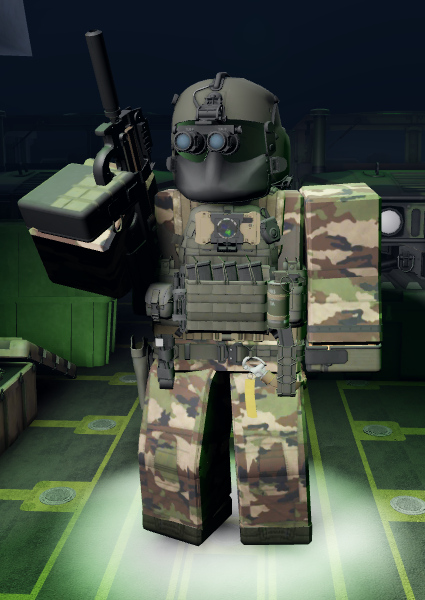
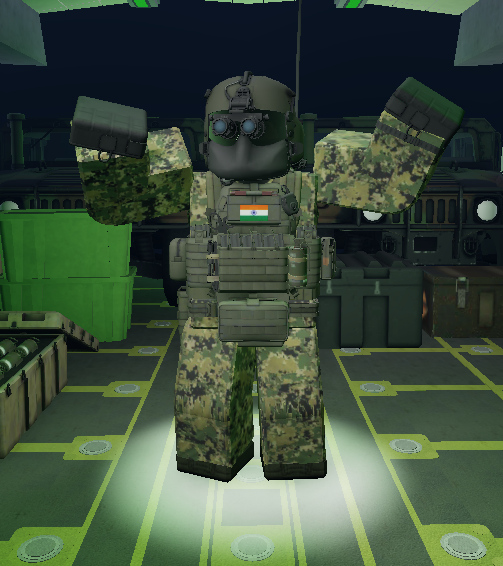
v1.7

diff --git a/uniforms.js b/uniforms.js
@@ -65,7 +65,7 @@ const uniforms = [
             "STANDARD ISSUE",
 
         image:
-            "INF1.png",
+            "IM90.png",
 
         description:
             "Authorized fictional in-game uniform configuration for personnel assigned to the 7 PARA/AMC/ASC/RECON/MED.",
@@ -107,7 +107,7 @@ const uniforms = [
                             "Primary",
 
                         value:
-                            "INTEL Rail 3.0 Ballistic"
+                            "MICH 2002"
                     },
 
                     {
@@ -115,7 +115,7 @@ const uniforms = [
                             "Camo",
 
                         value:
-                            "Ranger Green"
+                            "Olive drab green"
                     },
 
                     {
@@ -236,7 +236,7 @@ const uniforms = [
                             "Camo",
 
                         value:
-                            "Tan"
+                            "Foliage Green/ ANY green"
                     }
 
                 ]
@@ -255,7 +255,7 @@ const uniforms = [
                             "System",
 
                         value:
-                            "Spectre U"
+                            "ACU (Army Combat Uniform)"
                     },
 
                     {
@@ -263,7 +263,7 @@ const uniforms = [
                             "Camo",
 
                         value:
-                            "Camouflage Central Europe"
+                            "US4CES Transitional"
                     }
 
                 ]
@@ -282,7 +282,7 @@ const uniforms = [
                             "System",
 
                         value:
-                            "Spectre U"
+                            "ACU (Army Combat Uniform)"
                     },
 
                     {
@@ -290,7 +290,7 @@ const uniforms = [
                             "Camo",
 
                         value:
-                            "Camouflage Central Europe"
+                            "US4CES Transitional"
                     }
 
                 ]
@@ -317,7 +317,7 @@ const uniforms = [
                             "Camo",
 
                         value:
-                            "C-AVOD AU for Attack 2 / Ranger or Olive Green for other uses"
+                            "Ranger green/ANY green"
                     }
 
                 ]
@@ -422,7 +422,7 @@ const uniforms = [
                             "Camo",
 
                         value:
-                            "Ranger Green"
+                            "Black"
                     }
 
                 ]
@@ -1045,7 +1045,7 @@ const uniforms = [
                         "System",
 
                     value:
-                        "Spectre U"
+                        "ACU (Army Combat Uniform)"
                 },
 
                 {
@@ -1053,7 +1053,7 @@ const uniforms = [
                         "Camo",
 
                     value:
-                        "Camouflage Central Europe"
+                        "US4CES Transitional"
                 }
 
             ]
@@ -1072,7 +1072,7 @@ const uniforms = [
                         "System",
 
                     value:
-                        "Spectre U"
+                        "ACU (Army Combat Uniform)"
                 },
 
                 {
@@ -1080,7 +1080,7 @@ const uniforms = [
                         "Camo",
 
                     value:
-                        "Camouflage Central Europe"
+                        "US4CES Transitional"
                 }
 
             ]
@@ -1107,7 +1107,7 @@ const uniforms = [
                         "Camo",
 
                     value:
-                        "C-AVOD AU for Attack 2 / Ranger or Olive Green for other uses"
+                        "Ranger green/ANY green"
                 }
 
             ]
@@ -1212,7 +1212,7 @@ const uniforms = [
                         "Camo",
 
                     value:
-                        "Ranger Green"
+                        "Black"
                 }
 
             ]

diff --git a/armoury.js b/armoury.js
@@ -135,16 +135,15 @@ const equipment = [
 
         role: "si",
 
-        name: "Beretta M9 (M9)",
+        name: "SIG SAUER M17 (M17)",
 
         type: "STANDARD ISSUE",
 
         image:
-            "M9.png",
+            "M17.png",
 
         description:
-            "The Beretta M9 is a 9mm semi-automatic service pistol, widely known for its reliability and distinctive open-slide design. It served as the standard U.S. military sidearm from 1985 for several decades.",
-
+            "The SIG Sauer M17 is a 9mm semi-automatic service pistol based on the SIG Sauer P320 platform, adopted by the U.S. military as its standard full-size Modular Handgun System sidearm.",
         info: {
 
             designation:
@@ -318,15 +317,15 @@ const equipment = [
 
         role: "autorifleman",
 
-        name: "Beretta M9 (M9)",
+        name: "SIG SAUER M17 (M17)",
 
         type: "AUTOMATIC",
 
         image:
-            "M9.png",
+            "M17.png",
 
         description:
-            "The Beretta M9 is a 9mm semi-automatic service pistol, widely known for its reliability and distinctive open-slide design. It served as the standard U.S. military sidearm from 1985 for several decades.",
+            "The SIG Sauer M17 is a 9mm semi-automatic service pistol based on the SIG Sauer P320 platform, adopted by the U.S. military as its standard full-size Modular Handgun System sidearm.",
 
         info: {
 
@@ -992,15 +991,15 @@ const equipment = [
 
         role: "marksman",
 
-        name: "Beretta M9 (M9)",
+        name: "SIG SAUER M17 (M17)",
 
         type: "STANDARD ISSUE",
 
         image:
-            "M9.png",
+            "M17.png",
 
         description:
-            "The Beretta M9 is a 9mm semi-automatic service pistol, widely known for its reliability and distinctive open-slide design. It served as the standard U.S. military sidearm from 1985 for several decades.",
+            "The SIG Sauer M17 is a 9mm semi-automatic service pistol based on the SIG Sauer P320 platform, adopted by the U.S. military as its standard full-size Modular Handgun System sidearm.",
 
         info: {
 
@@ -1238,15 +1237,15 @@ const equipment = [
 
         role: "sniper",
 
-        name: "Beretta M9 (M9)",
+        name: "SIG SAUER M17 (M17)",
 
         type: "STANDARD ISSUE",
 
         image:
-            "M9.png",
+            "M17.png",
 
         description:
-            "The Beretta M9 is a 9mm semi-automatic service pistol, widely known for its reliability and distinctive open-slide design. It served as the standard U.S. military sidearm from 1985 for several decades.",
+            "The SIG Sauer M17 is a 9mm semi-automatic service pistol based on the SIG Sauer P320 platform, adopted by the U.S. military as its standard full-size Modular Handgun System sidearm.",
 
         info: {
 

diff --git a/index.html b/index.html
@@ -312,7 +312,7 @@
           <div class="stat">
 
             <b>
-              40+
+              60+
             </b>
 
             <span>
@@ -376,7 +376,7 @@
 
       <!-- DEPLOYMENTS -->
       <div class="stat-item">
-        <strong>33</strong>
+        <strong>40</strong>
         <span>DEPLOYMENTS</span>
       </div>
 
@@ -390,14 +390,14 @@
 
       <!-- AARS -->
       <div class="stat-item">
-        <strong>19</strong>
-        <span>AARS FILED</span>
+        <strong>12+</strong>
+        <span>COUNTRIES</span>
       </div>
 
 
       <!-- TRAINING -->
       <div class="stat-item">
-        <strong>21</strong>
+        <strong>41</strong>
         <span>TRAINING SESSIONS</span>
       </div>
 
